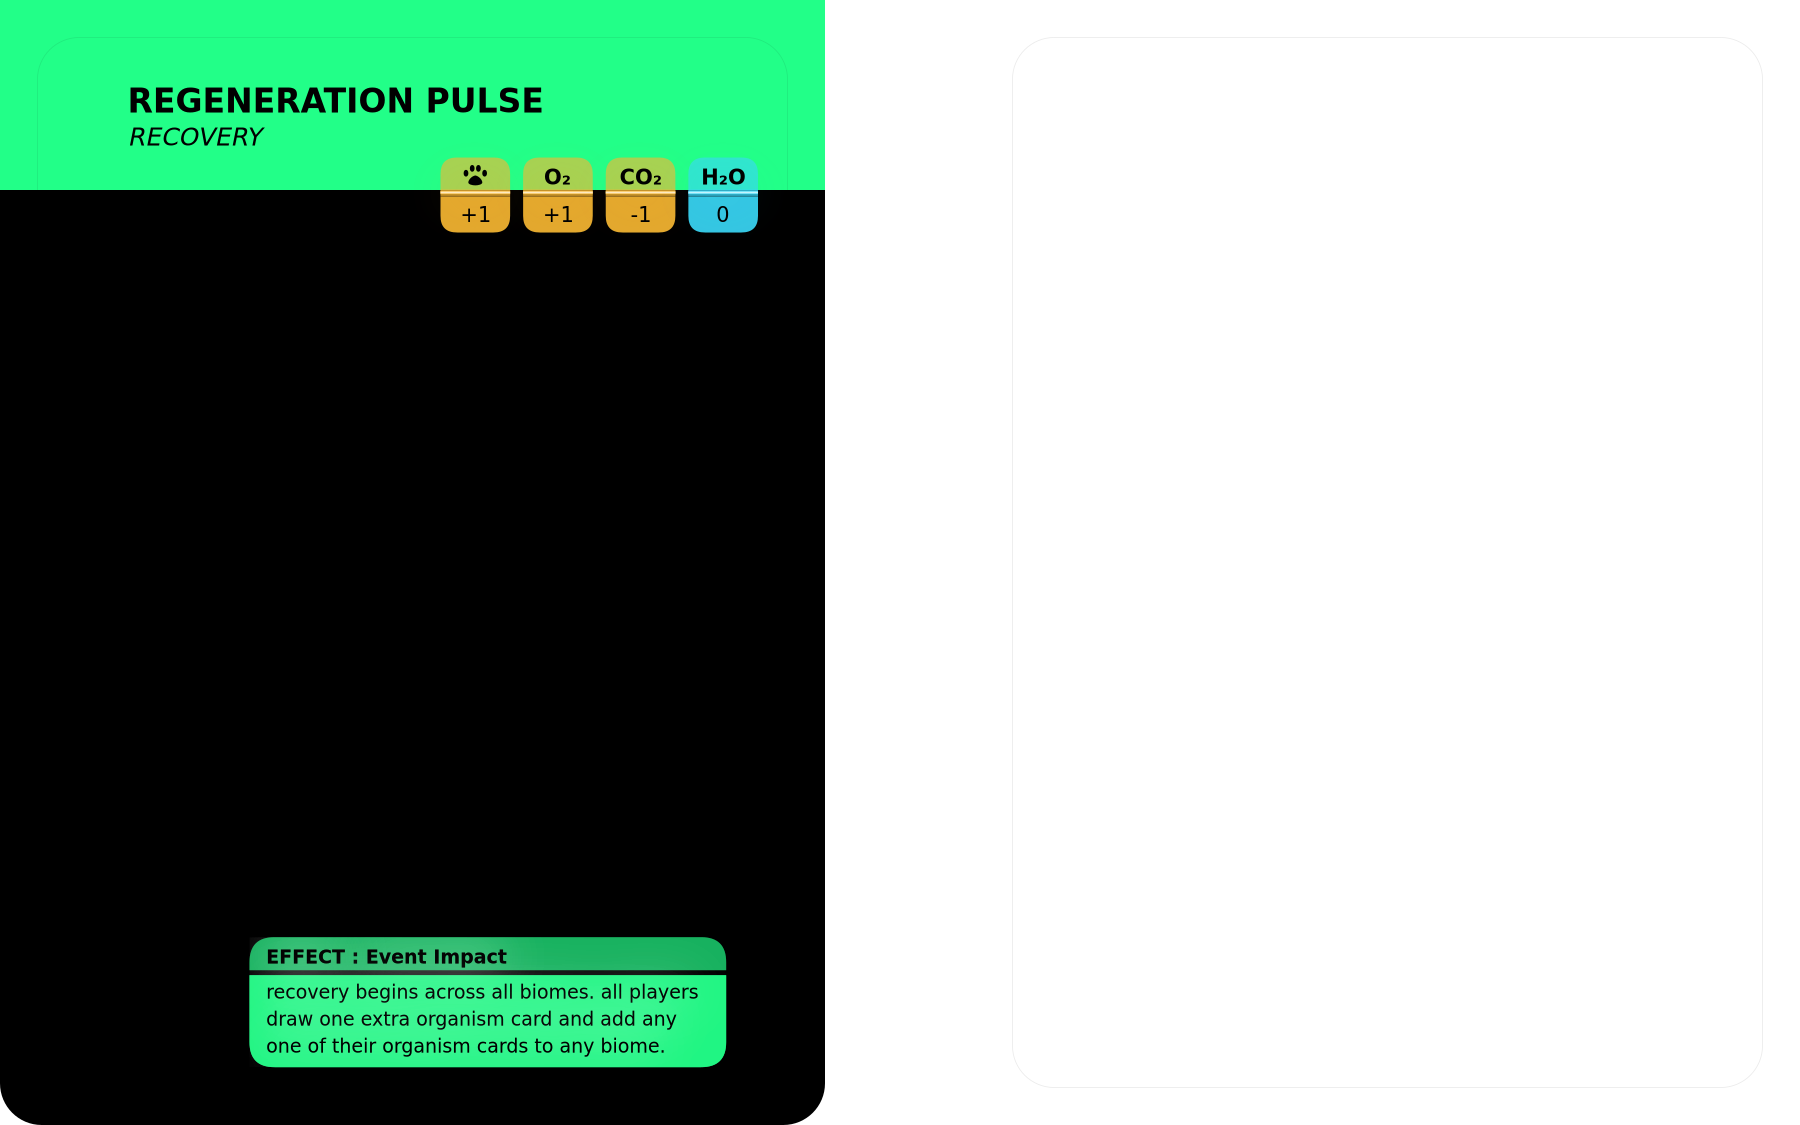
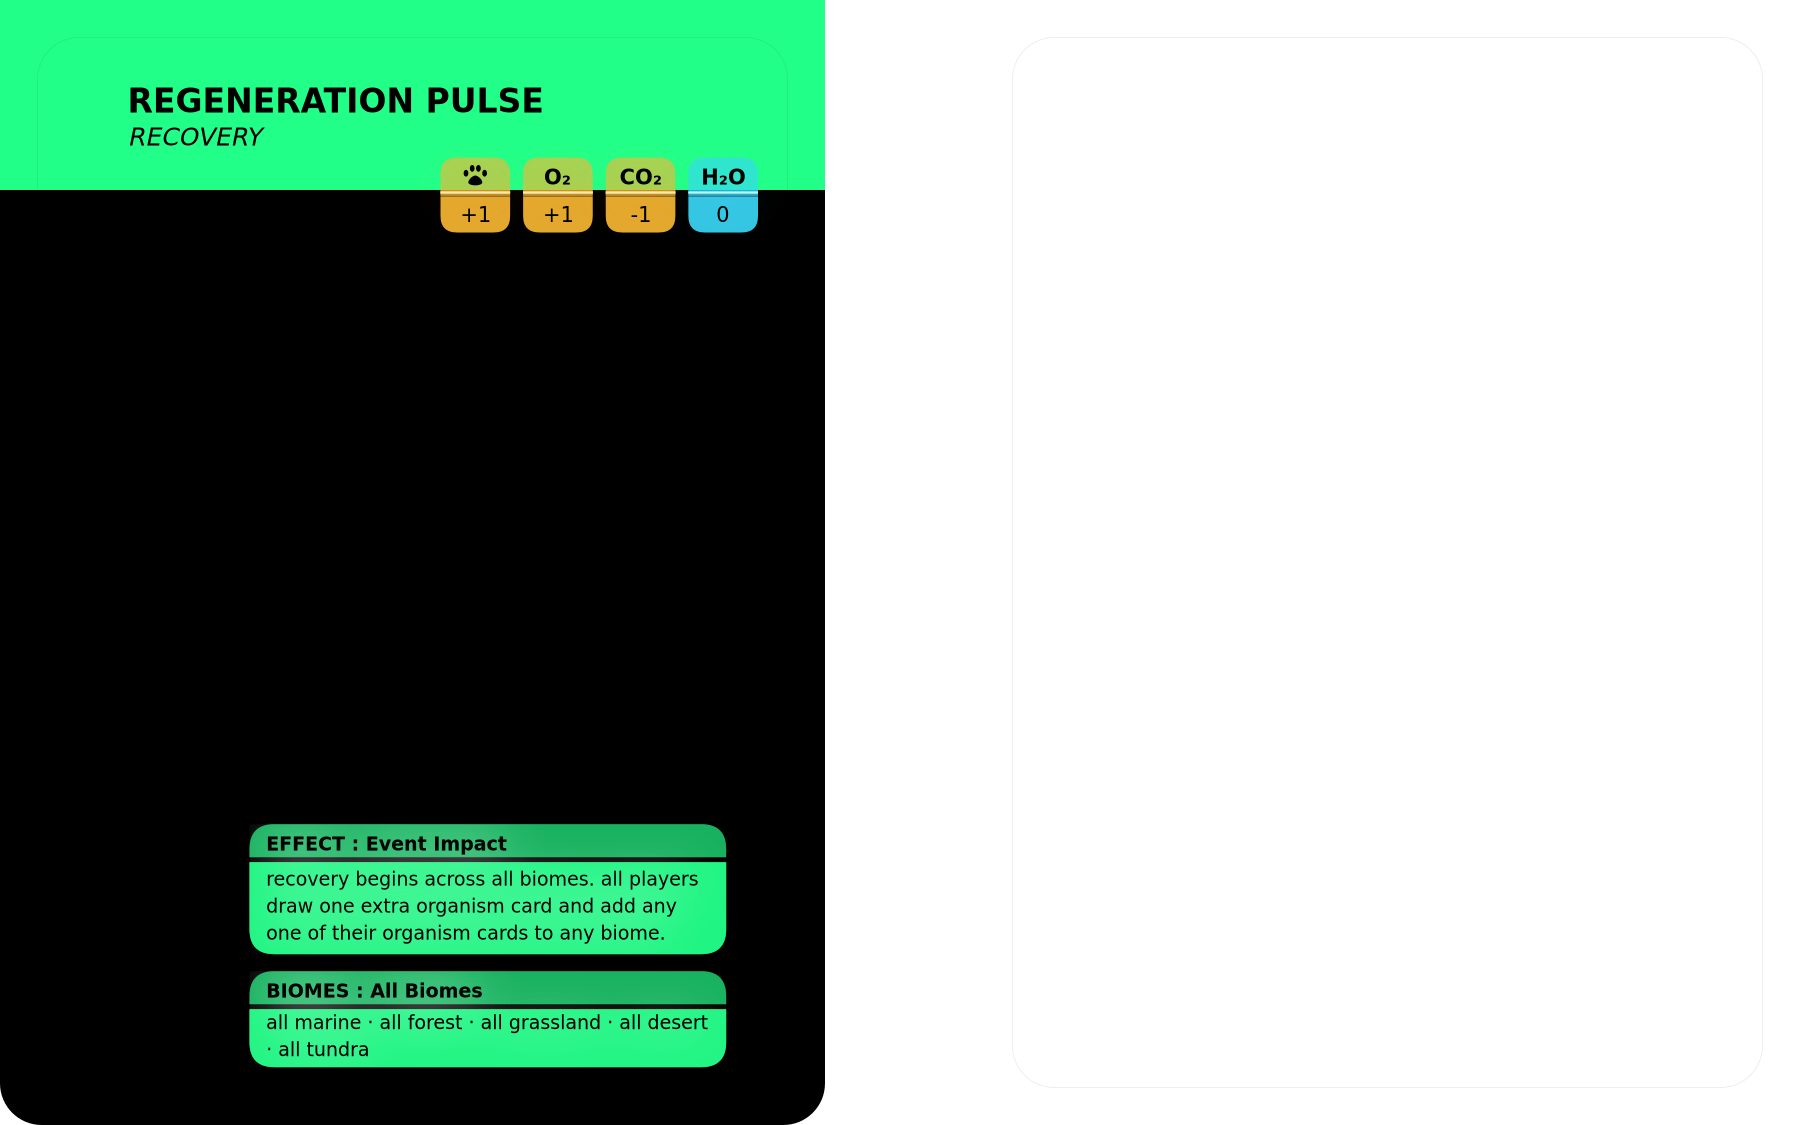
Enhance biome classifications and effectText descriptions for recovery events in event-cards.json and layout-event-card.js for improved clarity and consistency across all biomes.

Changed region(s): [[0.1244, 0.7156, 0.4044, 0.9333]]

diff --git a/game/lib/event-cards/layout-event-card.js b/game/lib/event-cards/layout-event-card.js
@@ -38,17 +38,27 @@ function getEventFieldDefinitions(event) {
     sub: event.effectText || null,
   });
 
-  // Field 2: Biomes (negative)
-  if (event.biomesBad && event.biomesBad.length) {
-    // Extract biome types and descriptions (matching organism card style)
-    const biomeTypes = [...new Set(event.biomesBad.map(biome => {
+  // Field 2: Biomes (negative or positive)
+  const biomesData = event.biomesBad && event.biomesBad.length ? event.biomesBad : (event.biomesGood && event.biomesGood.length ? event.biomesGood : null);
+  
+  if (biomesData) {
+    // Extract main biome types only (before parentheses) - keep only the 5 main categories, exclude Wetlands
+    const mainCategorySet = new Set();
+    biomesData.forEach(biome => {
       const match = biome.match(/^([^(]+)/);
-      return match ? match[1].trim() : biome;
-    }))];
+      if (match) {
+        const category = match[1].trim();
+        // Include "All Biomes" or "All Biomes Present", and the 5 main categories (exclude Wetlands)
+        if (category.startsWith('All Biomes') || ['Marine', 'Forest', 'Grassland', 'Desert', 'Tundra'].includes(category)) {
+          mainCategorySet.add(category);
+        }
+      }
+    });
+    const biomeTypes = Array.from(mainCategorySet);
     
-    // Extract all individual biome descriptions
+    // Extract all individual biome descriptions for subtitle (including wetlands types)
     const allDescriptions = [];
-    event.biomesBad.forEach(biome => {
+    biomesData.forEach(biome => {
       const match = biome.match(/\(([^)]+)\)/);
       if (match) {
         let desc = match[1].trim();
@@ -80,14 +90,16 @@ function getEventFieldDefinitions(event) {
       }
     });
     
-    const biomeTypesList = biomeTypes.join(', ');
+    const biomeTypesList = biomeTypes.length > 0 ? biomeTypes.join(', ') : '';
     const biomeDescList = groupedList.length > 0 ? groupedList.join(' · ') : null;
     
-    fields.push({
-      label: 'Biomes',
-      main: biomeTypesList,
-      sub: biomeDescList,
-    });
+    if (biomeTypesList || biomeDescList) {
+      fields.push({
+        label: 'Biomes',
+        main: biomeTypesList,
+        sub: biomeDescList,
+      });
+    }
   }
 
   // Field 3: Organisms (negative)
